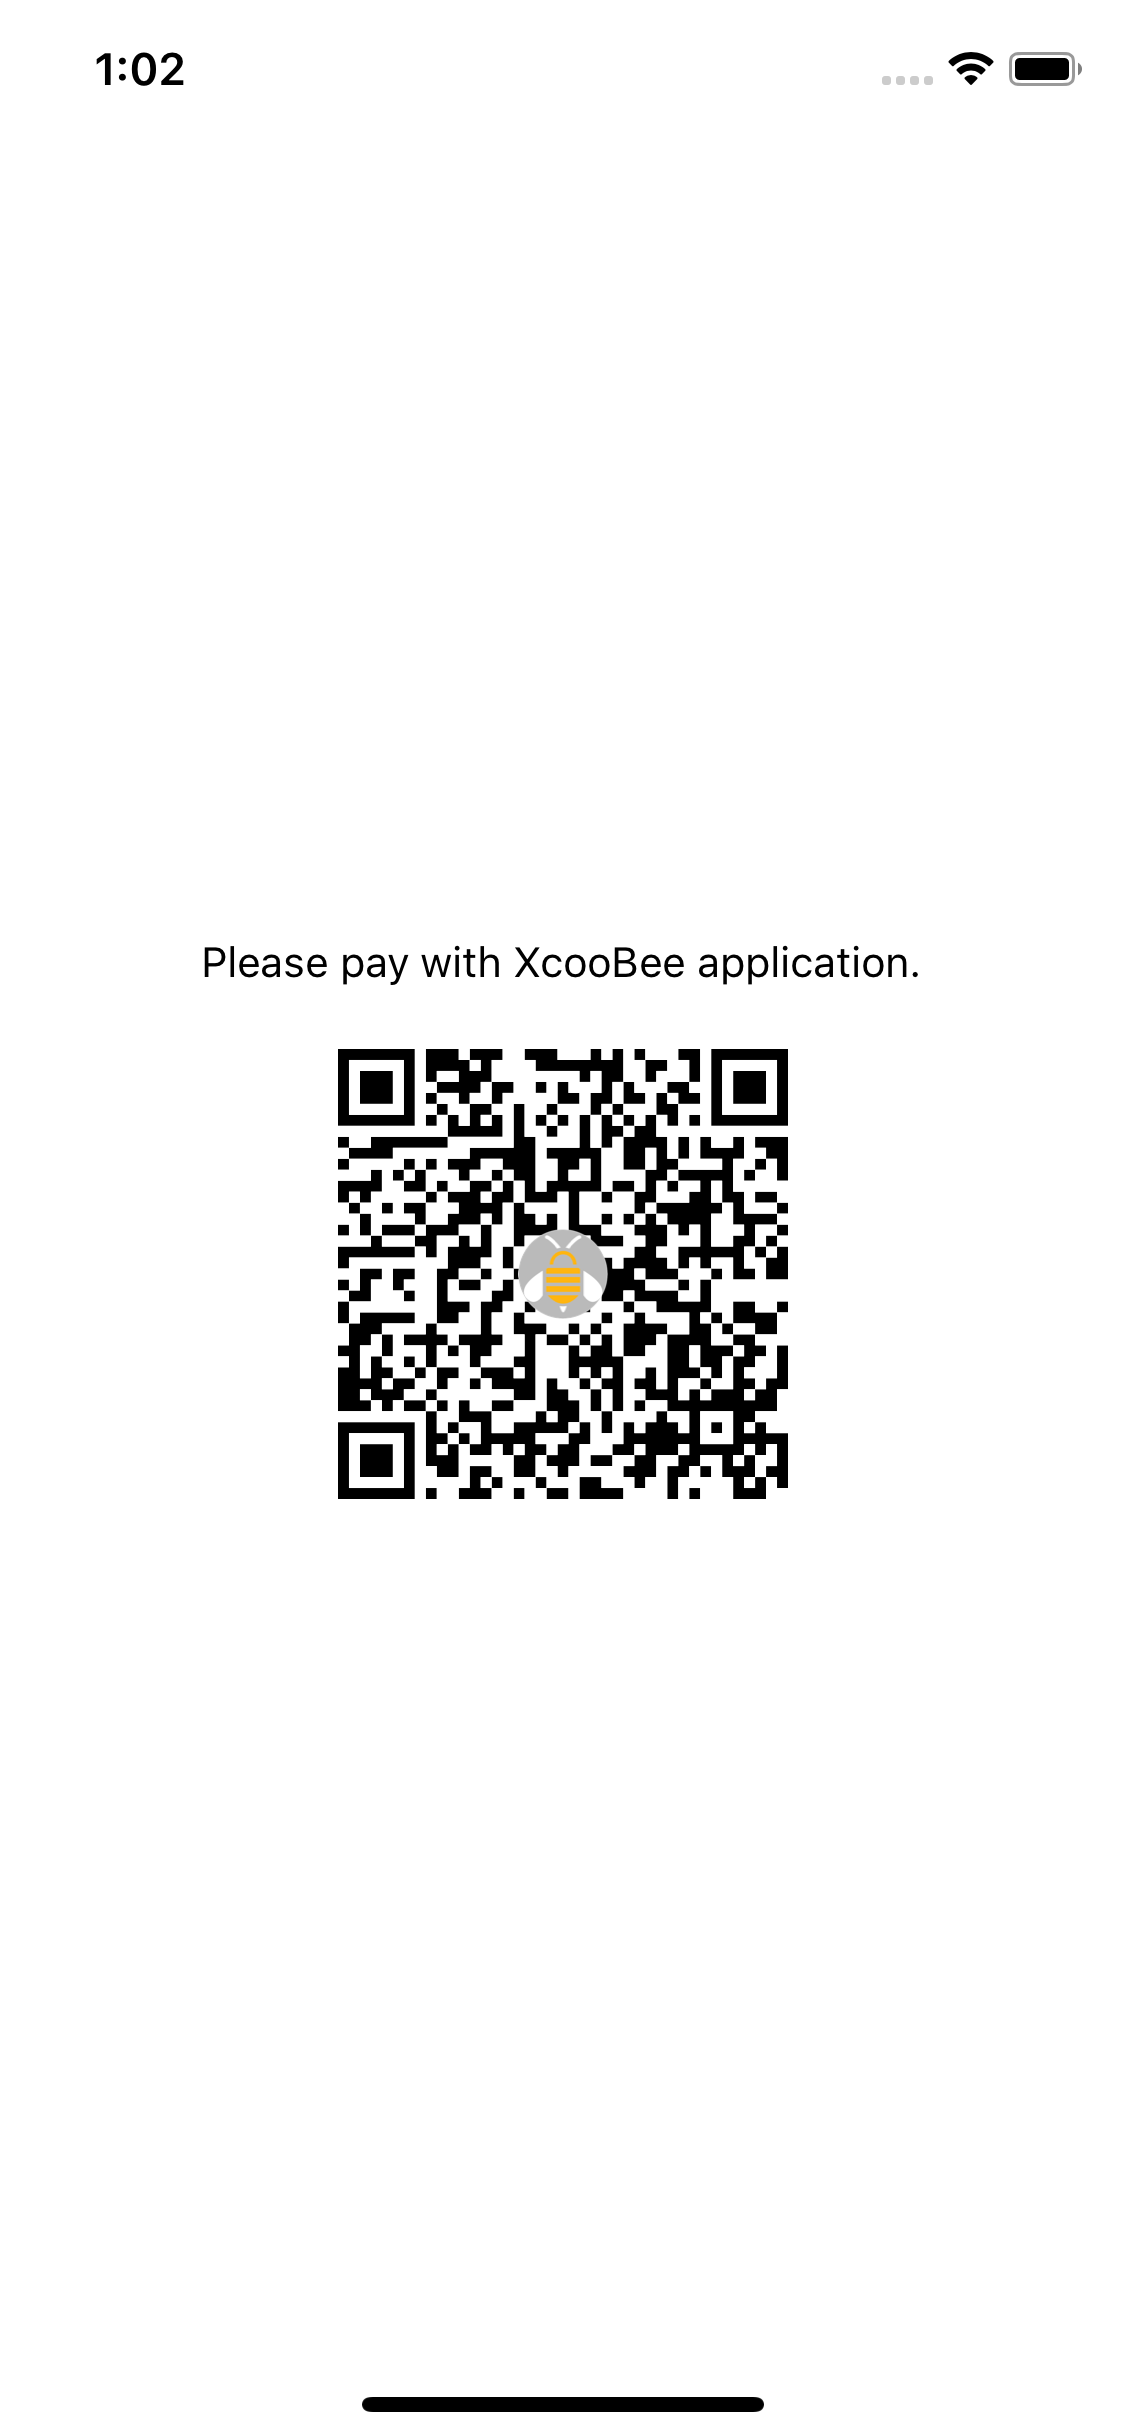
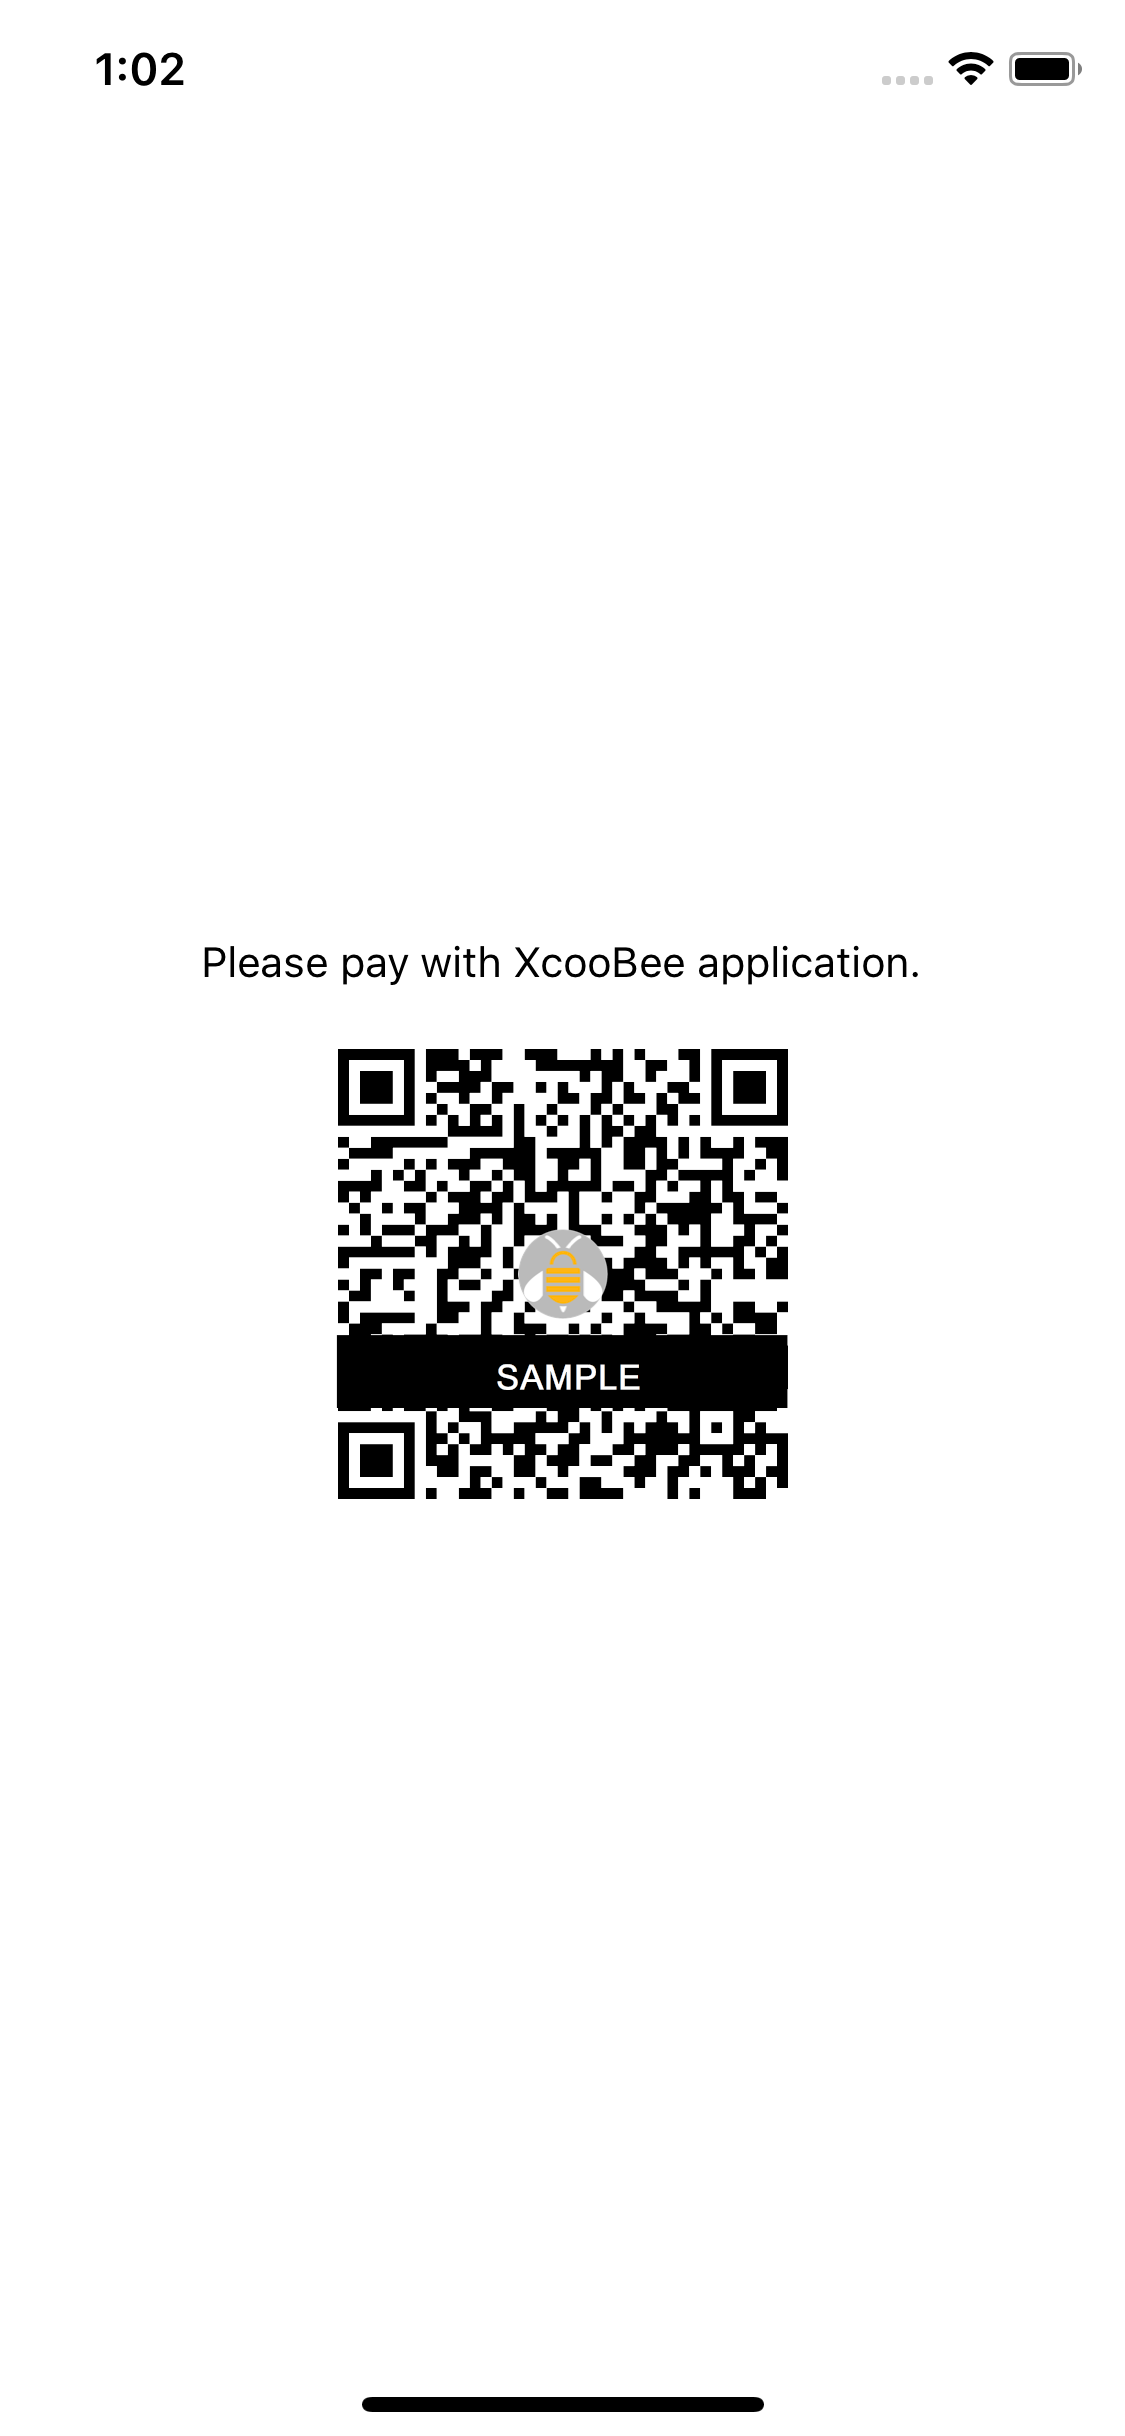
update example app

Changed region(s): [[0.28, 0.5304, 0.7156, 0.5928]]

diff --git a/examples/xcoobee-paysdk-example/App.tsx b/examples/xcoobee-paysdk-example/App.tsx
@@ -2,9 +2,12 @@ import React from 'react';
 import { StyleSheet, Text, View } from 'react-native';
 import XcooBeePaySDK from '@xcoobee/react-native-xcoobee-payment-sdk';
 
+
+// TODO: replace with actual values from XcooBee Payment Project
+// Open your payment project in edit mode and review the summary screen
 XcooBeePaySDK.setSystemConfig({
-  campaignId: 'f98.eg6152508',
-  formId: 'v025'
+  campaignId: 'e98.eg6152508',
+  formId: 't025'
 });
 
 export default function App() {
@@ -12,14 +15,11 @@ export default function App() {
 
   return (
     <View style={styles.container}>
-      <Text
-        style={{
+      <Text  style={{
           marginBottom: 20
-        }}
-      >
-        Please pay with XcooBee application.
-      </Text>
+        }}>Please scan and pay</Text>
       {XcooBeePayQR}
+      <Text>powered by XcooBee</Text>
     </View>
   );
 }

diff --git a/examples/xcoobee-paysdk-example/README.md b/examples/xcoobee-paysdk-example/README.md
@@ -1,0 +1,28 @@
+# Example Contactless Payments App
+
+This example uses the XcooBee Payments SDK for react native.
+Please clone to a directory on your system or copy example files from the SDK into separate directory.
+
+This example project was build with [Expo](https://www.expo.io) but you can also use CRA.
+
+So you will also need the Expo command line tools.
+
+`yarn install expo-cli --global`
+
+## SDK
+
+Information about SDK and its API is available in SDK Repo.
+
+Please see [SDK](https://github.com/XcooBee/payment-sdk-react-native)
+
+
+## Install
+
+`yarn install`
+
+## Run
+
+`expo start`
+
+You can use `npm` as alternate package manager.
+
